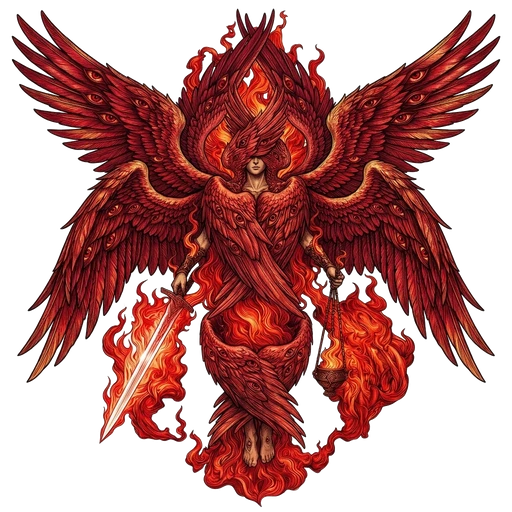
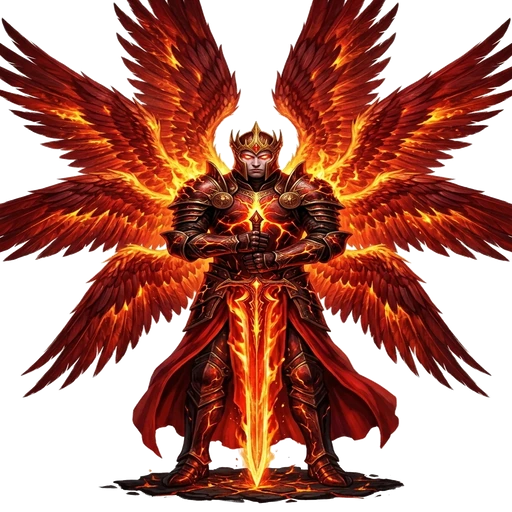
feat(art): rebuild 3 Red Angels from armored fire-angel reference in parallel (v94)

diff --git a/src/data/cardArtPrompts.ts b/src/data/cardArtPrompts.ts
@@ -1084,7 +1084,7 @@ export const CARD_ART_PROMPTS: Record<string, string> = {
   "purple_179_morgause_dama_ferro_abissal": "2D Dark Fantasy gothic baroque cel-shaded ink illustration, slender Gothic Abyssal Female Dread-Marshal Morgause in spiked black-obsidian plate armor with an elongated upward-tilted visor helm crowned in black-gold and glowing purple amethysts, glowing violet soul-gem on her breastplate, holding a tall runic black tower shield on her right and resting her left gauntlet on a planted abyssal greatsword on pure white background.",
   "purple_180_corvina_marechal_bico_praga": "2D Dark Fantasy gothic baroque cel-shaded ink illustration, lethal Plague-Beak Female Marshal Corvina in articulated black-steel plate armor wearing a metallic raven-beak mask with glowing violet eyes beneath a deep royal-purple velvet hood crowned with a black-gold and amethyst diadem, hands resting on a long necrotic-rune katana sheathed diagonally at her waist on pure white background.",
   "purple_181_nyxara_comandante_laminas_veu": "2D Dark Fantasy gothic baroque cel-shaded ink illustration, agile Veil-Blade Female Shadow Commander Nyxara with glowing violet eyes and silver hair locks under a midnight-purple and gold-trimmed hood with a crescent amethyst diadem, dual-wielding twin curved bone-hilted scimitars etched with glowing violet shadow-runes in a crossed stance on pure white background.",
-  "red_182_arauto_duas_asas_pira": "2D Dark Fantasy sacred baroque woodcut engraving illustration, First-Choir Crimson Flame Angel with 2 large crimson-scarlet and gold feathered wings studded with glowing red ember eyes, body wrapped in swirling living crimson-orange flames from shoulders to bare feet, flaming crown around serene face, wielding a white-hot flaming broadsword in the right hand and a hanging burning censer of scarlet fire in the left hand on pure white background.",
-  "red_183_kamael_arcanjo_seis_asas_brasa": "2D Dark Fantasy sacred baroque woodcut engraving illustration, Second-Choir Archangel Kamael with 6 crimson-scarlet and gold feathered wings studded with glowing red ember eyes (2 pairs spread wide on the sides and 1 pair crossed over the lower legs), body wrapped in swirling living crimson-orange flames, flaming crown around serene face, wielding a white-hot flaming broadsword in the right hand and a hanging burning censer of scarlet fire in the left hand on pure white background.",
-  "red_184_azariel_serafim_dez_asas_chama": "2D Dark Fantasy sacred baroque woodcut engraving illustration, Supreme Ten-Winged Flame Seraph Azariel with 10 crimson-scarlet and gold feathered wings covered in glowing red ember eyes (1 pair crossing over the brow and eyes, 2 colossal pairs spread wide, 1 pair crossed over the chest, and 1 pair crossed over the legs), wielding a white-hot flaming sword in the right hand and a hanging burning censer of scarlet fire in the left hand amidst a pillar of living crimson flame on pure white background."
+  "red_182_arauto_duas_asas_pira": "2D Dark Fantasy painterly concept art illustration, First-Choir Crimson Warrior Angel with 2 blazing fire wings, dark crimson-and-steel plate armor with burning pauldrons and tattered crimson war-skirt, golden hair illuminated by firelight, wielding a flaming greatsword in the right hand on pure white background.",
+  "red_183_kamael_arcanjo_seis_asas_brasa": "2D Dark Fantasy painterly concept art illustration, Second-Choir Archangel Kamael with 6 blazing crimson-and-gold fire wings (3 pairs spread in a fan), golden-ruby crown over flowing hair, ornate crimson-and-gold filigree plate armor and royal crimson war-robe, wielding a flaming greatsword in the right hand and a blazing fire-spear in the left hand on pure white background.",
+  "red_184_azariel_serafim_dez_asas_chama": "2D Dark Fantasy painterly concept art illustration, Supreme Flame Seraph Azariel with monumental layered crimson-and-magma fire wings, crowned golden seraphic helm with glowing fiery eyes, magma-veined crimson-and-gold plate armor and crimson war-cloak, resting both gauntleted hands on a colossal planted magma-fire greatsword on pure white background."
 };

diff --git a/src/components/CardView.tsx b/src/components/CardView.tsx
@@ -496,7 +496,7 @@ export const CardView: React.FC<CardViewProps> = ({
           <div className={`cpa-token-art aura-${displayCard.domain}`}>
             {!imgError && displayCard.imagePath ? (
               <img
-                src={`${displayCard.imagePath}?v=79`}
+                src={`${displayCard.imagePath}?v=80`}
                 alt={displayName}
                 className="cpa-token-img"
                 onError={() => setImgError(true)}
@@ -667,7 +667,7 @@ export const CardView: React.FC<CardViewProps> = ({
 
           {!imgError && displayCard.imagePath ? (
             <img
-              src={`${displayCard.imagePath}?v=79`}
+              src={`${displayCard.imagePath}?v=80`}
               alt={displayName}
               className="card-cutout-img"
               onError={() => setImgError(true)}

diff --git a/public/sw.js b/public/sw.js
@@ -1,4 +1,4 @@
-const CACHE_VERSION = 'chromatic-pact-v93';
+const CACHE_VERSION = 'chromatic-pact-v94';
 const ASSET_CACHE = `${CACHE_VERSION}-assets`;
 
 const PRECACHE_URLS = [
